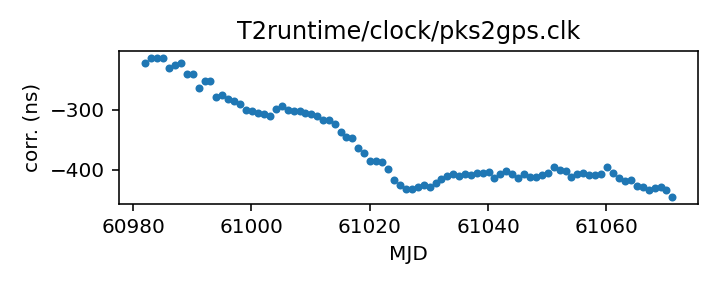
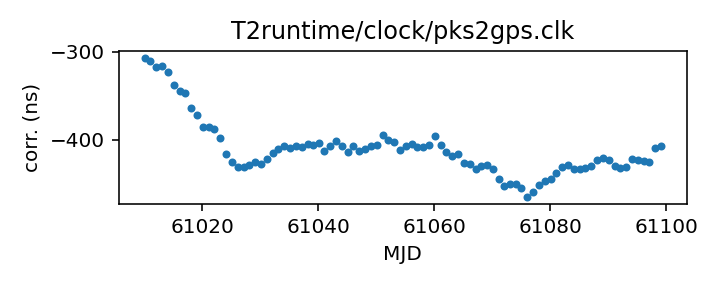
Routine gh-pages update from Github action Fri Mar 27 21:05:13 UTC 2026

diff --git a/status.md b/status.md
@@ -13,18 +13,18 @@ name of each clock file links to a page with more details.
 
 | Name | File | Corrections start | Corrections end | Last check date | Last check result 
 |:--- |:--- | --- | --- | --- |:--- 
-| [GPS to UTC](T2runtime/clock/gps2utc.clk.html) | `T2runtime/clock/gps2utc.clk` | 1993-01-01 MJD 48988.0 | 2026-02-28 MJD 61099.0 | 2026-03-26 | Unchanged 
-| [GPS to UTC (Combined Clock)](T2runtime/clock/gps2utc_cc.clk.html) | `T2runtime/clock/gps2utc_cc.clk` | 1993-01-01 MJD 48988.0 | 2026-02-28 MJD 61099.0 | 2026-03-26 | Unchanged 
-| [GPS to UTC (Corrected)](T2runtime/clock/gps2utc_c0p.clk.html) | `T2runtime/clock/gps2utc_c0p.clk` | 2010-12-29 MJD 55559.0 | 2026-02-28 MJD 61099.0 | 2026-03-26 | Unchanged 
-| [GBT](tempo/clock/time_gbt.dat.html) | `tempo/clock/time_gbt.dat` | 2000-12-31 MJD 51909.5 | 2026-03-25 MJD 61124.5 | 2026-03-26 | Updated 
-| [GBT (TEMPO2 converted from TEMPO)](T2runtime/clock/gbt2gps.clk.html) | `T2runtime/clock/gbt2gps.clk` | 2000-12-31 MJD 51909.5 | 2024-05-18 MJD 60448.5 | 2026-03-26 | **Validation failed** 
+| [GPS to UTC](T2runtime/clock/gps2utc.clk.html) | `T2runtime/clock/gps2utc.clk` | 1993-01-01 MJD 48988.0 | 2026-02-28 MJD 61099.0 | 2026-03-27 | Unchanged 
+| [GPS to UTC (Combined Clock)](T2runtime/clock/gps2utc_cc.clk.html) | `T2runtime/clock/gps2utc_cc.clk` | 1993-01-01 MJD 48988.0 | 2026-02-28 MJD 61099.0 | 2026-03-27 | Unchanged 
+| [GPS to UTC (Corrected)](T2runtime/clock/gps2utc_c0p.clk.html) | `T2runtime/clock/gps2utc_c0p.clk` | 2010-12-29 MJD 55559.0 | 2026-02-28 MJD 61099.0 | 2026-03-27 | Unchanged 
+| [GBT](tempo/clock/time_gbt.dat.html) | `tempo/clock/time_gbt.dat` | 2000-12-31 MJD 51909.5 | 2026-03-26 MJD 61125.5 | 2026-03-27 | Updated 
+| [GBT (TEMPO2 converted from TEMPO)](T2runtime/clock/gbt2gps.clk.html) | `T2runtime/clock/gbt2gps.clk` | 2000-12-31 MJD 51909.5 | 2024-05-18 MJD 60448.5 | 2026-03-27 | **Validation failed** 
 | [Jodrell Bank](T2runtime/clock/jb2gps.clk.html) | `T2runtime/clock/jb2gps.clk` | 2006-10-13 MJD 54021.4 | 2025-11-28 MJD 61007.0 | 2026-03-23 | Unchanged 
-| [Jodrell Bank Roach](T2runtime/clock/jbroach2jb.clk.html) | `T2runtime/clock/jbroach2jb.clk` | 2006-10-13 MJD 54021.4 | 2018-03-20 MJD 58197.6 | 2026-03-20 | Unchanged 
-| [Jodrell Bank DFB](T2runtime/clock/jbdfb2jb.clk.html) | `T2runtime/clock/jbdfb2jb.clk` | 2006-10-13 MJD 54021.4 | 2021-02-22 MJD 59268.0 | 2026-03-20 | Unchanged 
-| [Meerkat (observatory)](T2runtime/clock/mk2utc_observatory.clk.html) | `T2runtime/clock/mk2utc_observatory.clk` | 2019-01-01 MJD 58484.0 | 2026-03-11 MJD 61111.0 | 2026-03-20 | Updated 
-| [Leap seconds](tempo/clock/leap.sec.html) | `tempo/clock/leap.sec` | 1972-07-01 MJD 41499.0 | 2017-01-01 MJD 57754.0 | 2026-03-26 | Unchanged 
-| [UT1 table](tempo/clock/ut1.dat.html) | `tempo/clock/ut1.dat` | 1973-01-02 MJD 41684.0 | 2027-04-03 MJD 61498.0 | 2026-03-26 | Updated 
-| [UT1 table](T2runtime/clock/ut1.dat.html) | `T2runtime/clock/ut1.dat` | 1973-01-02 MJD 41684.0 | 2027-04-03 MJD 61498.0 | 2026-03-26 | Updated 
+| [Jodrell Bank Roach](T2runtime/clock/jbroach2jb.clk.html) | `T2runtime/clock/jbroach2jb.clk` | 2006-10-13 MJD 54021.4 | 2018-03-20 MJD 58197.6 | 2026-03-27 | Unchanged 
+| [Jodrell Bank DFB](T2runtime/clock/jbdfb2jb.clk.html) | `T2runtime/clock/jbdfb2jb.clk` | 2006-10-13 MJD 54021.4 | 2021-02-22 MJD 59268.0 | 2026-03-27 | Unchanged 
+| [Meerkat (observatory)](T2runtime/clock/mk2utc_observatory.clk.html) | `T2runtime/clock/mk2utc_observatory.clk` | 2019-01-01 MJD 58484.0 | 2026-03-11 MJD 61111.0 | 2026-03-27 | Unchanged 
+| [Leap seconds](tempo/clock/leap.sec.html) | `tempo/clock/leap.sec` | 1972-07-01 MJD 41499.0 | 2017-01-01 MJD 57754.0 | 2026-03-27 | Unchanged 
+| [UT1 table](tempo/clock/ut1.dat.html) | `tempo/clock/ut1.dat` | 1973-01-02 MJD 41684.0 | 2027-04-03 MJD 61498.0 | 2026-03-27 | Unchanged 
+| [UT1 table](T2runtime/clock/ut1.dat.html) | `T2runtime/clock/ut1.dat` | 1973-01-02 MJD 41684.0 | 2027-04-03 MJD 61498.0 | 2026-03-27 | Unchanged 
 
 
 
@@ -69,26 +69,26 @@ name of each clock file links to a page with more details.
 
 | Name | File | Corrections start | Corrections end | Last check date | Last check result 
 |:--- |:--- | --- | --- | --- |:--- 
-| [GPS to UTC (TEMPO2)](T2runtime/clock/gpst2utc_tempo2.clk.html) | `T2runtime/clock/gpst2utc_tempo2.clk` | 1993-01-01 MJD 48988.0 | 2024-12-30 MJD 60674.0 | 2026-03-20 | Unchanged 
-| [GBT (TEMPO2)](T2runtime/clock/gbt2gps_tempo2.clk.html) | `T2runtime/clock/gbt2gps_tempo2.clk` | 2000-12-31 MJD 51909.5 | 2020-02-25 MJD 58904.5 | 2026-03-20 | Unchanged 
-| [Jodrell Bank (TEMPO)](tempo/clock/time_jb.dat.html) | `tempo/clock/time_jb.dat` | 2006-10-13 MJD 54021.4 | 2019-05-13 MJD 58616.2 | 2026-03-20 | **Failed to download** 
-| [VLA](tempo/clock/time_vla.dat.html) | `tempo/clock/time_vla.dat` | 1990-10-27 MJD 48191.2 | 2025-02-10 MJD 60716.2 | 2026-03-20 | Unchanged 
-| [VLA (TEMPO2)](T2runtime/clock/vla2gps.clk.html) | `T2runtime/clock/vla2gps.clk` | 2015-02-01 MJD 57054.6 | 2025-02-10 MJD 60716.2 | 2026-03-20 | Unchanged 
-| [VLA to NIST](T2runtime/clock/vla2nist.clk.html) | `T2runtime/clock/vla2nist.clk` | 1990-10-27 MJD 48191.2 | 1993-11-13 MJD 49304.0 | 2026-03-20 | Unchanged 
-| [FAST](tempo/clock/time_fast.dat.html) | `tempo/clock/time_fast.dat` | 2017-07-27 MJD 57961.0 | 2025-08-25 MJD 60913.0 | 2026-03-20 | **Failed to download** 
-| [WSRT](T2runtime/clock/wsrt2gps.clk.html) | `T2runtime/clock/wsrt2gps.clk` | 1999-01-01 MJD 51179.5 | 2015-06-29 MJD 57202.1 | 2026-03-20 | Unchanged 
-| [WSRT (TEMPO)](tempo/clock/time_wsrt.dat.html) | `tempo/clock/time_wsrt.dat` | 1987-07-24 MJD 47000.0 | 2007-12-24 MJD 54458.0 | 2026-03-20 | **Validation failed** 
-| [Parkes](T2runtime/clock/pks2gps.clk.html) | `T2runtime/clock/pks2gps.clk` | 1858-11-17 MJD 0.0 | 2026-01-31 MJD 61071.1 | 2026-03-20 | Unchanged 
-| [Parkes (TEMPO)](tempo/clock/time_pks.dat.html) | `tempo/clock/time_pks.dat` | 1979-05-07 MJD 44000.0 | 2011-07-03 MJD 55745.8 | 2026-03-20 | Unchanged 
-| [SRT](T2runtime/clock/srt2gps.clk.html) | `T2runtime/clock/srt2gps.clk` | 2013-03-20 MJD 56371.0 | 2019-12-11 MJD 58828.0 | 2026-03-20 | Unchanged 
-| [Effelsberg](T2runtime/clock/eff2gps.clk.html) | `T2runtime/clock/eff2gps.clk` | 1993-11-29 MJD 49320.0 | 2015-06-22 MJD 57195.5 | 2026-03-20 | Unchanged 
-| [Effelsberg Asterix/PSRix](T2runtime/clock/effix2gps.clk.html) | `T2runtime/clock/effix2gps.clk` | 2011-01-01 MJD 55562.5 | 2021-03-21 MJD 59294.5 | 2026-03-20 | **Validation failed** 
-| [LEAP](T2runtime/clock/leap2effix.clk.html) | `T2runtime/clock/leap2effix.clk` | 2012-10-29 MJD 56230.0 | 2014-03-04 MJD 56720.0 | 2026-03-20 | Unchanged 
-| [NUPPI](tempo/clock/time_nuppi.dat.html) | `tempo/clock/time_nuppi.dat` | 2005-03-07 MJD 53436.0 | 2015-11-08 MJD 57334.6 | 2026-03-20 | Unchanged 
-| [Meerkat (TEMPO2)](T2runtime/clock/mk2utc.clk.html) | `T2runtime/clock/mk2utc.clk` | 2019-01-01 MJD 58484.0 | 2024-09-23 MJD 60576.9 | 2026-03-20 | **Validation failed** 
-| [MOST](T2runtime/clock/mo2gps.clk.html) | `T2runtime/clock/mo2gps.clk` | 2003-12-27 MJD 53000.0 | 2018-09-06 MJD 58367.0 | 2026-03-20 | Unchanged 
-| [Nancay to obspm](T2runtime/clock/ncyobs2obspm.clk.html) | `T2runtime/clock/ncyobs2obspm.clk` | 1988-05-18 MJD 47299.6 | 2025-09-26 MJD 60944.0 | 2026-03-20 | Unchanged 
-| [obspm](T2runtime/clock/obspm2gps.clk.html) | `T2runtime/clock/obspm2gps.clk` | 2003-12-01 MJD 52974.0 | 2025-09-26 MJD 60944.0 | 2026-03-20 | Unchanged 
+| [GPS to UTC (TEMPO2)](T2runtime/clock/gpst2utc_tempo2.clk.html) | `T2runtime/clock/gpst2utc_tempo2.clk` | 1993-01-01 MJD 48988.0 | 2024-12-30 MJD 60674.0 | 2026-03-27 | Unchanged 
+| [GBT (TEMPO2)](T2runtime/clock/gbt2gps_tempo2.clk.html) | `T2runtime/clock/gbt2gps_tempo2.clk` | 2000-12-31 MJD 51909.5 | 2020-02-25 MJD 58904.5 | 2026-03-27 | Unchanged 
+| [Jodrell Bank (TEMPO)](tempo/clock/time_jb.dat.html) | `tempo/clock/time_jb.dat` | 2006-10-13 MJD 54021.4 | 2019-05-13 MJD 58616.2 | 2026-03-27 | Unchanged 
+| [VLA](tempo/clock/time_vla.dat.html) | `tempo/clock/time_vla.dat` | 1990-10-27 MJD 48191.2 | 2025-02-10 MJD 60716.2 | 2026-03-27 | Unchanged 
+| [VLA (TEMPO2)](T2runtime/clock/vla2gps.clk.html) | `T2runtime/clock/vla2gps.clk` | 2015-02-01 MJD 57054.6 | 2025-02-10 MJD 60716.2 | 2026-03-27 | Unchanged 
+| [VLA to NIST](T2runtime/clock/vla2nist.clk.html) | `T2runtime/clock/vla2nist.clk` | 1990-10-27 MJD 48191.2 | 1993-11-13 MJD 49304.0 | 2026-03-27 | Unchanged 
+| [FAST](tempo/clock/time_fast.dat.html) | `tempo/clock/time_fast.dat` | 2017-07-27 MJD 57961.0 | 2025-08-25 MJD 60913.0 | 2026-03-27 | **Failed to download** 
+| [WSRT](T2runtime/clock/wsrt2gps.clk.html) | `T2runtime/clock/wsrt2gps.clk` | 1999-01-01 MJD 51179.5 | 2015-06-29 MJD 57202.1 | 2026-03-27 | Unchanged 
+| [WSRT (TEMPO)](tempo/clock/time_wsrt.dat.html) | `tempo/clock/time_wsrt.dat` | 1987-07-24 MJD 47000.0 | 2007-12-24 MJD 54458.0 | 2026-03-27 | **Validation failed** 
+| [Parkes](T2runtime/clock/pks2gps.clk.html) | `T2runtime/clock/pks2gps.clk` | 1858-11-17 MJD 0.0 | 2026-02-28 MJD 61099.1 | 2026-03-27 | Updated 
+| [Parkes (TEMPO)](tempo/clock/time_pks.dat.html) | `tempo/clock/time_pks.dat` | 1979-05-07 MJD 44000.0 | 2011-07-03 MJD 55745.8 | 2026-03-27 | Unchanged 
+| [SRT](T2runtime/clock/srt2gps.clk.html) | `T2runtime/clock/srt2gps.clk` | 2013-03-20 MJD 56371.0 | 2019-12-11 MJD 58828.0 | 2026-03-27 | Unchanged 
+| [Effelsberg](T2runtime/clock/eff2gps.clk.html) | `T2runtime/clock/eff2gps.clk` | 1993-11-29 MJD 49320.0 | 2015-06-22 MJD 57195.5 | 2026-03-27 | Unchanged 
+| [Effelsberg Asterix/PSRix](T2runtime/clock/effix2gps.clk.html) | `T2runtime/clock/effix2gps.clk` | 2011-01-01 MJD 55562.5 | 2021-03-21 MJD 59294.5 | 2026-03-27 | **Validation failed** 
+| [LEAP](T2runtime/clock/leap2effix.clk.html) | `T2runtime/clock/leap2effix.clk` | 2012-10-29 MJD 56230.0 | 2014-03-04 MJD 56720.0 | 2026-03-27 | Unchanged 
+| [NUPPI](tempo/clock/time_nuppi.dat.html) | `tempo/clock/time_nuppi.dat` | 2005-03-07 MJD 53436.0 | 2015-11-08 MJD 57334.6 | 2026-03-27 | Unchanged 
+| [Meerkat (TEMPO2)](T2runtime/clock/mk2utc.clk.html) | `T2runtime/clock/mk2utc.clk` | 2019-01-01 MJD 58484.0 | 2024-09-23 MJD 60576.9 | 2026-03-27 | **Validation failed** 
+| [MOST](T2runtime/clock/mo2gps.clk.html) | `T2runtime/clock/mo2gps.clk` | 2003-12-27 MJD 53000.0 | 2018-09-06 MJD 58367.0 | 2026-03-27 | Unchanged 
+| [Nancay to obspm](T2runtime/clock/ncyobs2obspm.clk.html) | `T2runtime/clock/ncyobs2obspm.clk` | 1988-05-18 MJD 47299.6 | 2025-09-26 MJD 60944.0 | 2026-03-27 | Unchanged 
+| [obspm](T2runtime/clock/obspm2gps.clk.html) | `T2runtime/clock/obspm2gps.clk` | 2003-12-01 MJD 52974.0 | 2025-09-26 MJD 60944.0 | 2026-03-27 | Unchanged 
 
 
 ### Further information:

diff --git a/T2runtime/clock/gbt2gps.clk.md b/T2runtime/clock/gbt2gps.clk.md
@@ -25,12 +25,11 @@ If questions arise about the conversion, contact Anne Archibald
 | Clock file start | 2000-12-31 MJD 51909.5 |
 | Clock file end | 2024-05-18 MJD 60448.5 |
 | Update interval (days) | 1 |
-| Last update attempt | 2026-03-26 |
+| Last update attempt | 2026-03-27 |
 | Last update result | Validation failed |
 
 Log entries from the last few update attempts:
 ```
-2026-03-17 21:04:37.254 - Validation failed: New version of T2runtime/clock/gbt2gps.clk MJDs differ from old version where they overlap in 8407 places
 2026-03-18 21:03:23.471 - Validation failed: New version of T2runtime/clock/gbt2gps.clk MJDs differ from old version where they overlap in 8407 places
 2026-03-19 21:03:20.834 - Validation failed: New version of T2runtime/clock/gbt2gps.clk clock corrections differ from old version where they overlap in 11 places
 2026-03-20 20:57:25.518 - Validation failed: New version of T2runtime/clock/gbt2gps.clk clock corrections differ from old version where they overlap in 11 places
@@ -40,6 +39,7 @@ Log entries from the last few update attempts:
 2026-03-24 21:04:09.143 - Validation failed: New version of T2runtime/clock/gbt2gps.clk clock corrections differ from old version where they overlap in 11 places
 2026-03-25 21:01:21.214 - Validation failed: New version of T2runtime/clock/gbt2gps.clk clock corrections differ from old version where they overlap in 11 places
 2026-03-26 20:57:53.108 - Validation failed: New version of T2runtime/clock/gbt2gps.clk clock corrections differ from old version where they overlap in 11 places
+2026-03-27 21:04:27.949 - Validation failed: New version of T2runtime/clock/gbt2gps.clk clock corrections differ from old version where they overlap in 11 places
 ```
 [Full log](https://raw.githubusercontent.com/ipta/pulsar-clock-corrections/main/log/T2runtime/clock/gbt2gps.clk.log)
 

diff --git a/T2runtime/clock/mk2utc.clk.md b/T2runtime/clock/mk2utc.clk.md
@@ -17,12 +17,11 @@ up-to-date.
 | Clock file start | 2019-01-01 MJD 58484.0 |
 | Clock file end | 2024-09-23 MJD 60576.9 |
 | Update interval (days) | 7 |
-| Last update attempt | 2026-03-20 |
+| Last update attempt | 2026-03-27 |
 | Last update result | Validation failed |
 
 Log entries from the last few update attempts:
 ```
-2026-01-05 20:47:24.469 - Validation failed: New version of T2runtime/clock/mk2utc.clk MJDs differ from old version where they overlap in 8252 places
 2026-01-12 20:46:57.288 - Validation failed: New version of T2runtime/clock/mk2utc.clk MJDs differ from old version where they overlap in 8252 places
 2026-01-19 20:46:13.523 - Validation failed: New version of T2runtime/clock/mk2utc.clk MJDs differ from old version where they overlap in 8252 places
 2026-01-26 20:50:02.551 - Validation failed: New version of T2runtime/clock/mk2utc.clk MJDs differ from old version where they overlap in 8252 places
@@ -32,6 +31,7 @@ Log entries from the last few update attempts:
 2026-03-06 20:56:21.918 - Validation failed: New version of T2runtime/clock/mk2utc.clk MJDs differ from old version where they overlap in 8252 places
 2026-03-13 21:00:08.325 - Validation failed: New version of T2runtime/clock/mk2utc.clk MJDs differ from old version where they overlap in 8252 places
 2026-03-20 20:57:55.296 - Validation failed: New version of T2runtime/clock/mk2utc.clk MJDs differ from old version where they overlap in 8252 places
+2026-03-27 21:04:45.050 - Validation failed: New version of T2runtime/clock/mk2utc.clk MJDs differ from old version where they overlap in 8252 places
 ```
 [Full log](https://raw.githubusercontent.com/ipta/pulsar-clock-corrections/main/log/T2runtime/clock/mk2utc.clk.log)
 

diff --git a/tempo/clock/time_wsrt.dat.md b/tempo/clock/time_wsrt.dat.md
@@ -20,12 +20,11 @@ should be the same information.
 | Clock file start | 1987-07-24 MJD 47000.0 |
 | Clock file end | 2007-12-24 MJD 54458.0 |
 | Update interval (days) | 7 |
-| Last update attempt | 2026-03-20 |
+| Last update attempt | 2026-03-27 |
 | Last update result | Validation failed |
 
 Log entries from the last few update attempts:
 ```
-2026-01-05 20:47:13.857 - Validation failed: New version of tempo/clock/time_wsrt.dat MJDs differ from old version where they overlap in 5 places
 2026-01-12 20:46:46.097 - Validation failed: New version of tempo/clock/time_wsrt.dat MJDs differ from old version where they overlap in 5 places
 2026-01-19 20:45:55.680 - Validation failed: New version of tempo/clock/time_wsrt.dat MJDs differ from old version where they overlap in 5 places
 2026-01-26 20:49:50.977 - Validation failed: New version of tempo/clock/time_wsrt.dat MJDs differ from old version where they overlap in 5 places
@@ -35,6 +34,7 @@ Log entries from the last few update attempts:
 2026-03-06 20:56:09.930 - Validation failed: New version of tempo/clock/time_wsrt.dat MJDs differ from old version where they overlap in 5 places
 2026-03-13 20:59:56.465 - Validation failed: New version of tempo/clock/time_wsrt.dat MJDs differ from old version where they overlap in 5 places
 2026-03-20 20:57:38.843 - Validation failed: New version of tempo/clock/time_wsrt.dat MJDs differ from old version where they overlap in 5 places
+2026-03-27 21:04:31.030 - Validation failed: New version of tempo/clock/time_wsrt.dat MJDs differ from old version where they overlap in 5 places
 ```
 [Full log](https://raw.githubusercontent.com/ipta/pulsar-clock-corrections/main/log/tempo/clock/time_wsrt.dat.log)
 

diff --git a/T2runtime/clock/effix2gps.clk.md b/T2runtime/clock/effix2gps.clk.md
@@ -20,12 +20,11 @@ thus here) can be expected to be somewhat up to date.
 | Clock file start | 2011-01-01 MJD 55562.5 |
 | Clock file end | 2021-03-21 MJD 59294.5 |
 | Update interval (days) | 7 |
-| Last update attempt | 2026-03-20 |
+| Last update attempt | 2026-03-27 |
 | Last update result | Validation failed |
 
 Log entries from the last few update attempts:
 ```
-2026-01-05 20:47:19.496 - Unchanged
 2026-01-12 20:46:51.744 - Unchanged
 2026-01-19 20:46:01.265 - Unchanged
 2026-01-26 20:49:56.754 - Unchanged
@@ -35,6 +34,7 @@ Log entries from the last few update attempts:
 2026-03-06 20:56:15.448 - Validation failed: New version of T2runtime/clock/effix2gps.clk clock corrections differ from old version where they overlap in 52 places
 2026-03-13 21:00:03.376 - Validation failed: New version of T2runtime/clock/effix2gps.clk clock corrections differ from old version where they overlap in 52 places
 2026-03-20 20:57:44.291 - Validation failed: New version of T2runtime/clock/effix2gps.clk clock corrections differ from old version where they overlap in 52 places
+2026-03-27 21:04:36.790 - Validation failed: New version of T2runtime/clock/effix2gps.clk clock corrections differ from old version where they overlap in 52 places
 ```
 [Full log](https://raw.githubusercontent.com/ipta/pulsar-clock-corrections/main/log/T2runtime/clock/effix2gps.clk.log)
 

diff --git a/tempo/clock/time_fast.dat.md b/tempo/clock/time_fast.dat.md
@@ -16,12 +16,11 @@ This file is pulled from the FAST_ClockFile repository.
 | Clock file start | 2017-07-27 MJD 57961.0 |
 | Clock file end | 2025-08-25 MJD 60913.0 |
 | Update interval (days) | 7 |
-| Last update attempt | 2026-03-20 |
+| Last update attempt | 2026-03-27 |
 | Last update result | Failed to download |
 
 Log entries from the last few update attempts:
 ```
-2026-01-05 20:47:13.160 - Failed to download: HTTP Error 404: Not Found
 2026-01-12 20:46:45.350 - Failed to download: HTTP Error 404: Not Found
 2026-01-19 20:45:54.946 - Failed to download: HTTP Error 404: Not Found
 2026-01-26 20:49:50.003 - Failed to download: HTTP Error 404: Not Found
@@ -31,6 +30,7 @@ Log entries from the last few update attempts:
 2026-03-06 20:56:05.024 - Failed to download: HTTP Error 404: Not Found
 2026-03-13 20:59:56.016 - Failed to download: HTTP Error 404: Not Found
 2026-03-20 20:57:38.170 - Failed to download: HTTP Error 404: Not Found
+2026-03-27 21:04:30.437 - Failed to download: HTTP Error 404: Not Found
 ```
 [Full log](https://raw.githubusercontent.com/ipta/pulsar-clock-corrections/main/log/tempo/clock/time_fast.dat.log)
 

diff --git a/tempo/clock/time_gbt.dat.md b/tempo/clock/time_gbt.dat.md
@@ -36,14 +36,13 @@ If questions arise, contact Ryan S. Lynch <rlynch@nrao.edu>.
 | Format | tempo |
 | Bogus last correction | False |
 | Clock file start | 2000-12-31 MJD 51909.5 |
-| Clock file end | 2026-03-25 MJD 61124.5 |
+| Clock file end | 2026-03-26 MJD 61125.5 |
 | Update interval (days) | 1 |
-| Last update attempt | 2026-03-26 |
+| Last update attempt | 2026-03-27 |
 | Last update result | Updated |
 
 Log entries from the last few update attempts:
 ```
-2026-03-17 21:04:37.177 - Updated
 2026-03-18 21:03:23.393 - Updated
 2026-03-19 21:03:20.759 - Updated
 2026-03-20 20:57:24.960 - Updated
@@ -53,6 +52,7 @@ Log entries from the last few update attempts:
 2026-03-24 21:04:09.073 - Updated
 2026-03-25 21:01:21.139 - Updated
 2026-03-26 20:57:53.032 - Updated
+2026-03-27 21:04:27.355 - Updated
 ```
 [Full log](https://raw.githubusercontent.com/ipta/pulsar-clock-corrections/main/log/tempo/clock/time_gbt.dat.log)
 

diff --git a/T2runtime/clock/pks2gps.clk.md b/T2runtime/clock/pks2gps.clk.md
@@ -33,14 +33,13 @@ we retain it.
 | Format | tempo2 |
 | Bogus last correction | False |
 | Clock file start | 1858-11-17 MJD 0.0 |
-| Clock file end | 2026-01-31 MJD 61071.1 |
+| Clock file end | 2026-02-28 MJD 61099.1 |
 | Update interval (days) | 7 |
-| Last update attempt | 2026-03-20 |
-| Last update result | Unchanged |
+| Last update attempt | 2026-03-27 |
+| Last update result | Updated |
 
 Log entries from the last few update attempts:
 ```
-2026-01-05 20:47:18.367 - Unchanged
 2026-01-12 20:46:50.503 - Unchanged
 2026-01-19 20:46:00.322 - Updated
 2026-01-26 20:49:55.179 - Unchanged
@@ -50,6 +49,7 @@ Log entries from the last few update attempts:
 2026-03-06 20:56:13.734 - Updated
 2026-03-13 21:00:01.301 - Unchanged
 2026-03-20 20:57:42.728 - Unchanged
+2026-03-27 21:04:35.375 - Updated
 ```
 [Full log](https://raw.githubusercontent.com/ipta/pulsar-clock-corrections/main/log/T2runtime/clock/pks2gps.clk.log)
 

diff --git a/T2runtime/clock/mk2utc_observatory.clk.md b/T2runtime/clock/mk2utc_observatory.clk.md
@@ -21,12 +21,11 @@ If questions arise, contact Ryan Shannon <rshannon@swin.edu.au>
 | Clock file start | 2019-01-01 MJD 58484.0 |
 | Clock file end | 2026-03-11 MJD 61111.0 |
 | Update interval (days) | 7 |
-| Last update attempt | 2026-03-20 |
-| Last update result | Updated |
+| Last update attempt | 2026-03-27 |
+| Last update result | Unchanged |
 
 Log entries from the last few update attempts:
 ```
-2026-01-05 20:47:23.154 - Unchanged
 2026-01-12 20:46:55.870 - Updated
 2026-01-19 20:46:12.227 - Unchanged
 2026-01-26 20:50:01.083 - Unchanged
@@ -36,6 +35,7 @@ Log entries from the last few update attempts:
 2026-03-06 20:56:20.131 - Updated
 2026-03-13 21:00:06.998 - Unchanged
 2026-03-20 20:57:53.594 - Updated
+2026-03-27 21:04:43.296 - Unchanged
 ```
 [Full log](https://raw.githubusercontent.com/ipta/pulsar-clock-corrections/main/log/T2runtime/clock/mk2utc_observatory.clk.log)
 

diff --git a/tempo/clock/time_jb.dat.md b/tempo/clock/time_jb.dat.md
@@ -17,12 +17,11 @@ up-to-date.
 | Clock file start | 2006-10-13 MJD 54021.4 |
 | Clock file end | 2019-05-13 MJD 58616.2 |
 | Update interval (days) | 7 |
-| Last update attempt | 2026-03-20 |
-| Last update result | Failed to download |
+| Last update attempt | 2026-03-27 |
+| Last update result | Unchanged |
 
 Log entries from the last few update attempts:
 ```
-2026-01-05 20:47:10.814 - Unchanged
 2026-01-12 20:46:42.326 - Unchanged
 2026-01-19 20:45:52.768 - Unchanged
 2026-01-26 20:49:47.036 - Unchanged
@@ -32,6 +31,7 @@ Log entries from the last few update attempts:
 2026-03-06 20:56:00.902 - Unchanged
 2026-03-13 20:59:55.041 - Unchanged
 2026-03-20 20:57:35.668 - Failed to download: The read operation timed out
+2026-03-27 21:04:28.750 - Unchanged
 ```
 [Full log](https://raw.githubusercontent.com/ipta/pulsar-clock-corrections/main/log/tempo/clock/time_jb.dat.log)
 

diff --git a/T2runtime/clock/gps2utc_c0p.clk.md b/T2runtime/clock/gps2utc_c0p.clk.md
@@ -30,12 +30,11 @@ about the BIPM's published corrections, contact <tai@bipm.org>.
 | Clock file start | 2010-12-29 MJD 55559.0 |
 | Clock file end | 2026-02-28 MJD 61099.0 |
 | Update interval (days) | 1 |
-| Last update attempt | 2026-03-26 |
+| Last update attempt | 2026-03-27 |
 | Last update result | Unchanged |
 
 Log entries from the last few update attempts:
 ```
-2026-03-17 21:04:35.089 - Unchanged
 2026-03-18 21:03:22.827 - Unchanged
 2026-03-19 21:03:20.030 - Unchanged
 2026-03-20 20:57:24.045 - Unchanged
@@ -45,6 +44,7 @@ Log entries from the last few update attempts:
 2026-03-24 21:04:08.129 - Unchanged
 2026-03-25 21:01:20.684 - Unchanged
 2026-03-26 20:57:52.168 - Unchanged
+2026-03-27 21:04:26.069 - Unchanged
 ```
 [Full log](https://raw.githubusercontent.com/ipta/pulsar-clock-corrections/main/log/T2runtime/clock/gps2utc_c0p.clk.log)
 

diff --git a/T2runtime/clock/gps2utc_cc.clk.md b/T2runtime/clock/gps2utc_cc.clk.md
@@ -29,12 +29,11 @@ about the BIPM's published corrections, contact <tai@bipm.org>.
 | Clock file start | 1993-01-01 MJD 48988.0 |
 | Clock file end | 2026-02-28 MJD 61099.0 |
 | Update interval (days) | 1 |
-| Last update attempt | 2026-03-26 |
+| Last update attempt | 2026-03-27 |
 | Last update result | Unchanged |
 
 Log entries from the last few update attempts:
 ```
-2026-03-17 21:04:35.080 - Unchanged
 2026-03-18 21:03:22.818 - Unchanged
 2026-03-19 21:03:20.022 - Unchanged
 2026-03-20 20:57:24.037 - Unchanged
@@ -44,6 +43,7 @@ Log entries from the last few update attempts:
 2026-03-24 21:04:08.121 - Unchanged
 2026-03-25 21:01:20.676 - Unchanged
 2026-03-26 20:57:52.160 - Unchanged
+2026-03-27 21:04:26.061 - Unchanged
 ```
 [Full log](https://raw.githubusercontent.com/ipta/pulsar-clock-corrections/main/log/T2runtime/clock/gps2utc_cc.clk.log)
 
